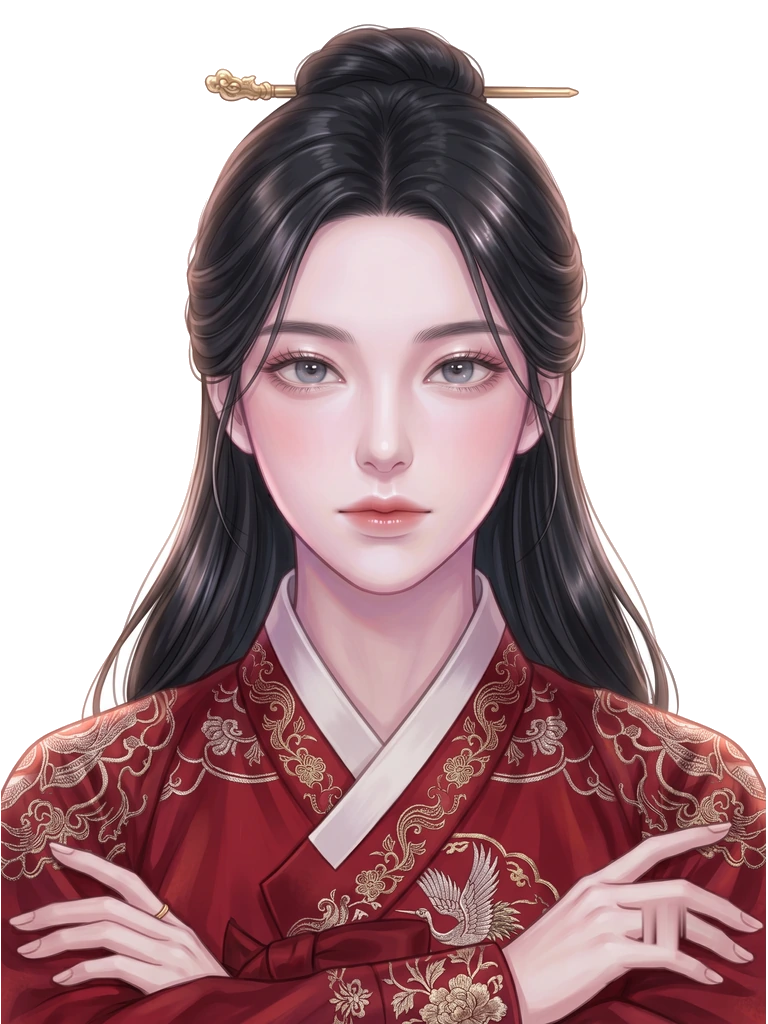
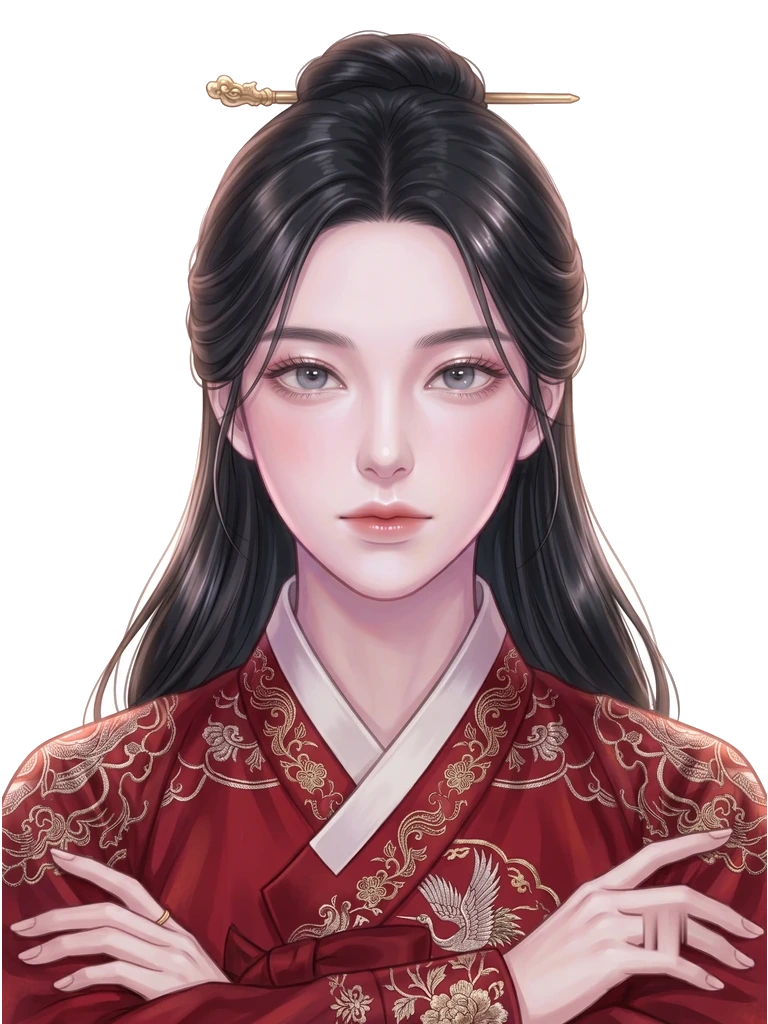
초상 스무 장의 머리가 저마다 다른 높이에 앉아 있었다
손님이 시켰소 — "초상화도 전부 다 알맞게 수정해줘, 전체 페이지 모두."

★ 규격은 맞았는데 자리가 안 맞았소

  스무 장이 다 768×1024 투명이고 용량도 상한 안이었소. 그런데
  **머리가 앉은 높이가 제각각**이었소 —

      머리 위 여백   청암거사 10px … 시계장이 80px  (일곱 배 차이)

  화면은 상자 넷에 담고(chip 48 · talk 66 · card 132 · full 288),
  작은 상자에서는 한 벌의 잣대로 당겨 쓰오
  (transform-origin 50% 34% · scale 1.5 / 1.45 / 1.3).

  그러니 머리가 높이 앉은 사람은 **상투와 관이 잘려 나가고**, 낮게
  앉은 사람은 머리 위가 휑했소. 청암거사·일관·면상선생·패선생은
  이마 위가 통째로 날아가고, 시계장이는 혼자 아래로 처져 있었소.

  **CSS 한 벌로는 스무 장을 다 맞출 수 없소.** 맞춰야 하는 것은
  초상 쪽이오.

★ 옮기기만 했소 — 그림에는 손 안 댔소

  세로로만 옮겨 머리 위를 30px 로 맞추고, 좌우는 그린 데의
  한가운데로 세웠소. 크기는 안 건드렸소 — 키우면 어깨가 잘리고
  줄이면 얼굴이 작아지는데 둘 다 그림을 상하게 하오.

  낮은 쪽(10px)에 가깝게 잡아 아래로 내리는 폭을 20px 안에 두었소.
  내려가며 생긴 바닥 틈은 `.charart` 의 방사 마스크가 녹이는 자리라
  안 보이오. 그려서 확인했소.

    옮긴 폭   시계장이 −50 … 청암거사 +20   (스무 장 다)
    용량      평균 102KB · 최대 137KB (상한 300KB)

★ 도구와 검사를 같이 두었소

    .\dev.ps1 busts            재 보기만
    .\dev.ps1 busts --write    맞춰 넣기

  초상은 한 장씩 들어오오. 스물한 번째가 딴 높이로 들어오면 그
  사람만 조용히 잘리오 — 아무도 안 죽고 화면만 어긋나서 손으로는
  잘 안 잡히오. 검사 다섯이 규격·용량·머리 높이·가운데·잘린 머리를
  보오. 한 장을 일부러 60px 어긋내 보니 둘이 물었소.

검사 883건 통과 — **`--deselect` 없이** 초상 검사까지 다 사오

diff --git a/tools/bust_align.py b/tools/bust_align.py
@@ -1,0 +1,131 @@
+# -*- coding: utf-8 -*-
+"""
+초상 스무 장의 **머리 높이를 맞춘다.**
+
+★ 손님이 짚은 것 (2026-09-05)
+  "초상화도 전부 다 알맞게 수정해줘, 전체 페이지 모두"
+
+★ 무엇이 어긋나 있었나
+
+  스무 장이 다 768×1024 투명이고 규격은 맞았습니다. 그런데 **머리가
+  앉은 높이가 제각각**이었습니다 —
+
+      머리 위 여백   청암거사 10px  …  시계장이 80px
+
+  화면은 상자 넷에 담고(chip · talk · card · full), 작은 상자에서는
+  한 벌의 잣대로 당겨 씁니다(`overrides.css` 의 transform-origin ·
+  scale). 그러니 머리가 높이 앉은 사람은 상투와 관이 잘려 나가고,
+  낮게 앉은 사람은 머리 위가 휑했습니다. **CSS 한 벌로는 스무 장을
+  다 맞출 수 없습니다** — 맞춰야 하는 것은 초상 쪽입니다.
+
+★ 어떻게 맞추나
+
+  세로로만 옮깁니다. 크기는 안 건드립니다 — 키우면 어깨가 잘리고
+  줄이면 얼굴이 작아지는데, 둘 다 그림을 상하게 합니다.
+
+      머리 위를 %d px 로 맞추고, 좌우는 그린 데의 한가운데로.
+
+  낮은 쪽(10px)에 가깝게 잡아 **아래로 내리는 폭을 작게** 둡니다.
+  내려가면 바닥에 틈이 생기는데, `.charart` 가 네 변을 마스크로
+  녹이니 그 안에 묻힙니다. 올라가는 쪽은 옷자락이 조금 잘릴 뿐이오.
+
+★ 그림을 새로 그리지 않습니다
+
+  자르고 옮길 뿐입니다. 얼굴에는 손대지 않습니다.
+
+    python tools/bust_align.py            재 보기만
+    python tools/bust_align.py --write    맞춰 넣기
+"""
+from __future__ import annotations
+
+import argparse
+import sys
+from pathlib import Path
+
+ROOT = Path(__file__).resolve().parents[1] / "apps" / "web" / "public" / "char"
+W, H = 768, 1024
+
+# 머리 위에 둘 여백. 낮은 쪽(가장 높이 앉은 초상)에 가깝게 잡아
+# 아래로 내리는 폭을 작게 둡니다.
+TOP = 30
+# 이보다 많이 옮겨야 하면 초상 자체가 딴판이라는 뜻이오 — 짚고 넘어갑니다.
+MOVE_WARN = 60
+
+
+def _load(d: Path):
+    for name in ("bust.webp", "bust.png"):
+        p = d / name
+        if p.exists():
+            return p
+    return None
+
+
+def measure(im):
+    """(머리 위, 그린 데의 가로 한가운데). 알파로만 봅니다."""
+    bb = im.getchannel("A").getbbox()
+    if not bb:
+        return 0, W // 2
+    return bb[1], (bb[0] + bb[2]) // 2
+
+
+def aligned(im):
+    """맞춘 그림과 (세로 옮김, 가로 옮김)."""
+    from PIL import Image
+
+    top, cx = measure(im)
+    dy = TOP - top
+    dx = W // 2 - cx
+    out = Image.new("RGBA", (W, H), (0, 0, 0, 0))
+    out.paste(im, (dx, dy))
+    return out, dy, dx
+
+
+def main(argv=None) -> int:
+    from PIL import Image
+
+    ap = argparse.ArgumentParser()
+    ap.add_argument("--write", action="store_true", help="맞춰 넣습니다")
+    a = ap.parse_args(argv)
+
+    if not ROOT.exists():
+        print("초상 자리가 없소: %s" % ROOT)
+        return 1
+
+    print("초상 머리 맞추기 — 머리 위 %dpx 로" % TOP)
+    print("%-11s %7s %7s %7s  %s" % ("id", "머리위", "세로옮김", "가로옮김", ""))
+    n = moved = 0
+    for d in sorted(ROOT.iterdir()):
+        p = _load(d)
+        if not p:
+            continue
+        im = Image.open(p).convert("RGBA")
+        if im.size != (W, H):
+            print("%-11s  규격이 %d×%d 요 — 건너뛰오" % (d.name, *im.size))
+            continue
+        top, cx = measure(im)
+        dy, dx = TOP - top, W // 2 - cx
+        n += 1
+        flag = ""
+        if abs(dy) >= MOVE_WARN:
+            flag = "  ← 많이 옮기오"
+        if dy or dx:
+            moved += 1
+        print("%-11s %7d %+7d %+7d%s" % (d.name, top, dy, dx, flag))
+        if a.write and (dy or dx):
+            out, _, _ = aligned(im)
+            # 원본이 webp 면 webp 로, png 면 png 로 되돌려 넣습니다.
+            if p.suffix == ".webp":
+                out.save(p, "WEBP", quality=92, method=6, exact=True)
+            else:
+                out.save(p, "PNG", optimize=True)
+
+    print()
+    print("초상 %d장 · 옮길 것 %d장%s"
+          % (n, moved, " — 넣었소" if a.write else " (재 보기만 했소)"))
+    if not a.write and moved:
+        print("넣으려면: python tools/bust_align.py --write")
+    return 0
+
+
+if __name__ == "__main__":
+    sys.exit(main())

diff --git a/tests/test_bust_align.py b/tests/test_bust_align.py
@@ -1,0 +1,130 @@
+# -*- coding: utf-8 -*-
+"""
+초상 스무 장의 **머리가 같은 높이에 앉았는가.**
+
+★ 손님이 짚은 것 (2026-09-05)
+  "초상화도 전부 다 알맞게 수정해줘, 전체 페이지 모두"
+
+★ 무엇이 어긋나 있었나
+
+  스무 장이 다 768×1024 투명이고 규격은 맞았습니다. 그런데 **머리가
+  앉은 높이가 제각각**이었습니다 —
+
+      머리 위 여백   청암거사 10px  …  시계장이 80px
+
+  화면은 상자 넷에 담고(chip · talk · card · full), 작은 상자에서는
+  한 벌의 잣대로 당겨 씁니다 (`overrides.css` 의 transform-origin ·
+  scale). 그러니 머리가 높이 앉은 사람은 상투와 관이 잘려 나가고,
+  낮게 앉은 사람은 머리 위가 휑했습니다.
+
+  **CSS 한 벌로는 스무 장을 다 맞출 수 없습니다.** 맞춰야 하는 것은
+  초상 쪽입니다 (tools/bust_align.py).
+
+★ 왜 검사로 잠그나
+
+  초상은 한 장씩 들어옵니다. 스물한 번째가 딴 높이로 들어오면 그
+  사람만 조용히 잘립니다 — 아무도 안 죽고 화면만 어긋나서 잘 안
+  잡힙니다.
+"""
+from __future__ import annotations
+
+import sys
+from pathlib import Path
+
+import pytest
+
+ROOT = Path(__file__).resolve().parents[1]
+CHAR = ROOT / "apps" / "web" / "public" / "char"
+sys.path.insert(0, str(ROOT))
+
+W, H = 768, 1024
+TOP = 30            # tools/bust_align.TOP 와 같은 값
+SLACK = 6           # 다시 저장하며 알파 가장자리가 한두 줄 흔들립니다
+MAX_KB = 300
+
+Image = pytest.importorskip("PIL.Image", reason="PIL 이 없소")
+
+
+def busts():
+    if not CHAR.exists():
+        return []
+    out = []
+    for d in sorted(CHAR.iterdir()):
+        for name in ("bust.webp", "bust.png"):
+            p = d / name
+            if p.exists():
+                out.append(p)
+                break
+    return out
+
+
+pytestmark = pytest.mark.skipif(not busts(), reason="아직 들어온 초상이 없습니다")
+
+
+def _measure(p):
+    im = Image.open(p).convert("RGBA")
+    bb = im.getchannel("A").getbbox()
+    return im.size, bb
+
+
+def test_규격과_용량():
+    bad = []
+    for p in busts():
+        size, _ = _measure(p)
+        if size != (W, H):
+            bad.append("%s — %d×%d" % (p.parent.name, *size))
+        kb = p.stat().st_size // 1024
+        if kb > MAX_KB:
+            bad.append("%s — %dKB" % (p.parent.name, kb))
+    assert not bad, "초상 규격:\n  " + "\n  ".join(bad)
+
+
+def test_머리가_같은_높이에_앉았다():
+    """
+    ★ 이게 이번에 어긋났던 자리입니다. 화면은 한 벌의 잣대로 당기니
+      초상이 저마다 다른 높이면 사람마다 다르게 잘립니다.
+    """
+    bad = []
+    for p in busts():
+        _, bb = _measure(p)
+        if not bb:
+            bad.append("%s — 그린 데가 없소" % p.parent.name)
+            continue
+        if abs(bb[1] - TOP) > SLACK:
+            bad.append("%s — 머리 위 %dpx (%dpx 라야 하오)"
+                       % (p.parent.name, bb[1], TOP))
+    assert not bad, ("머리 높이가 어긋났소 — python tools/bust_align.py --write\n  "
+                     + "\n  ".join(bad))
+
+
+def test_가운데에_섰다():
+    """좌우로 치우치면 당겼을 때 얼굴이 한쪽으로 쏠리오."""
+    bad = []
+    for p in busts():
+        _, bb = _measure(p)
+        if not bb:
+            continue
+        off = (bb[0] + bb[2]) // 2 - W // 2
+        if abs(off) > 12:
+            bad.append("%s — %+dpx 치우쳤소" % (p.parent.name, off))
+    assert not bad, "\n  ".join(bad)
+
+
+def test_머리_위가_비어_있다():
+    """
+    ★ 알파 상단이 0 이면 머리가 **잘린 채로** 들어온 것이오.
+      맞추기 도구는 옮길 뿐이라, 잘린 것은 못 되살리오.
+    """
+    bad = [p.parent.name for p in busts() if (_measure(p)[1] or (0, 0))[1] == 0]
+    assert not bad, "머리가 잘린 초상: %s" % bad
+
+
+def test_맞추는_도구가_할_일이_없다():
+    """도구를 다시 돌려도 옮길 것이 없어야 하오 — 이미 맞았다는 뜻이오."""
+    from tools.bust_align import TOP as T, measure
+    assert T == TOP, "검사와 도구의 눈금이 갈렸소"
+    for p in busts():
+        im = Image.open(p).convert("RGBA")
+        top, cx = measure(im)
+        assert abs(top - T) <= SLACK, (p.parent.name, top)
+        assert abs(cx - W // 2) <= 12, (p.parent.name, cx)
